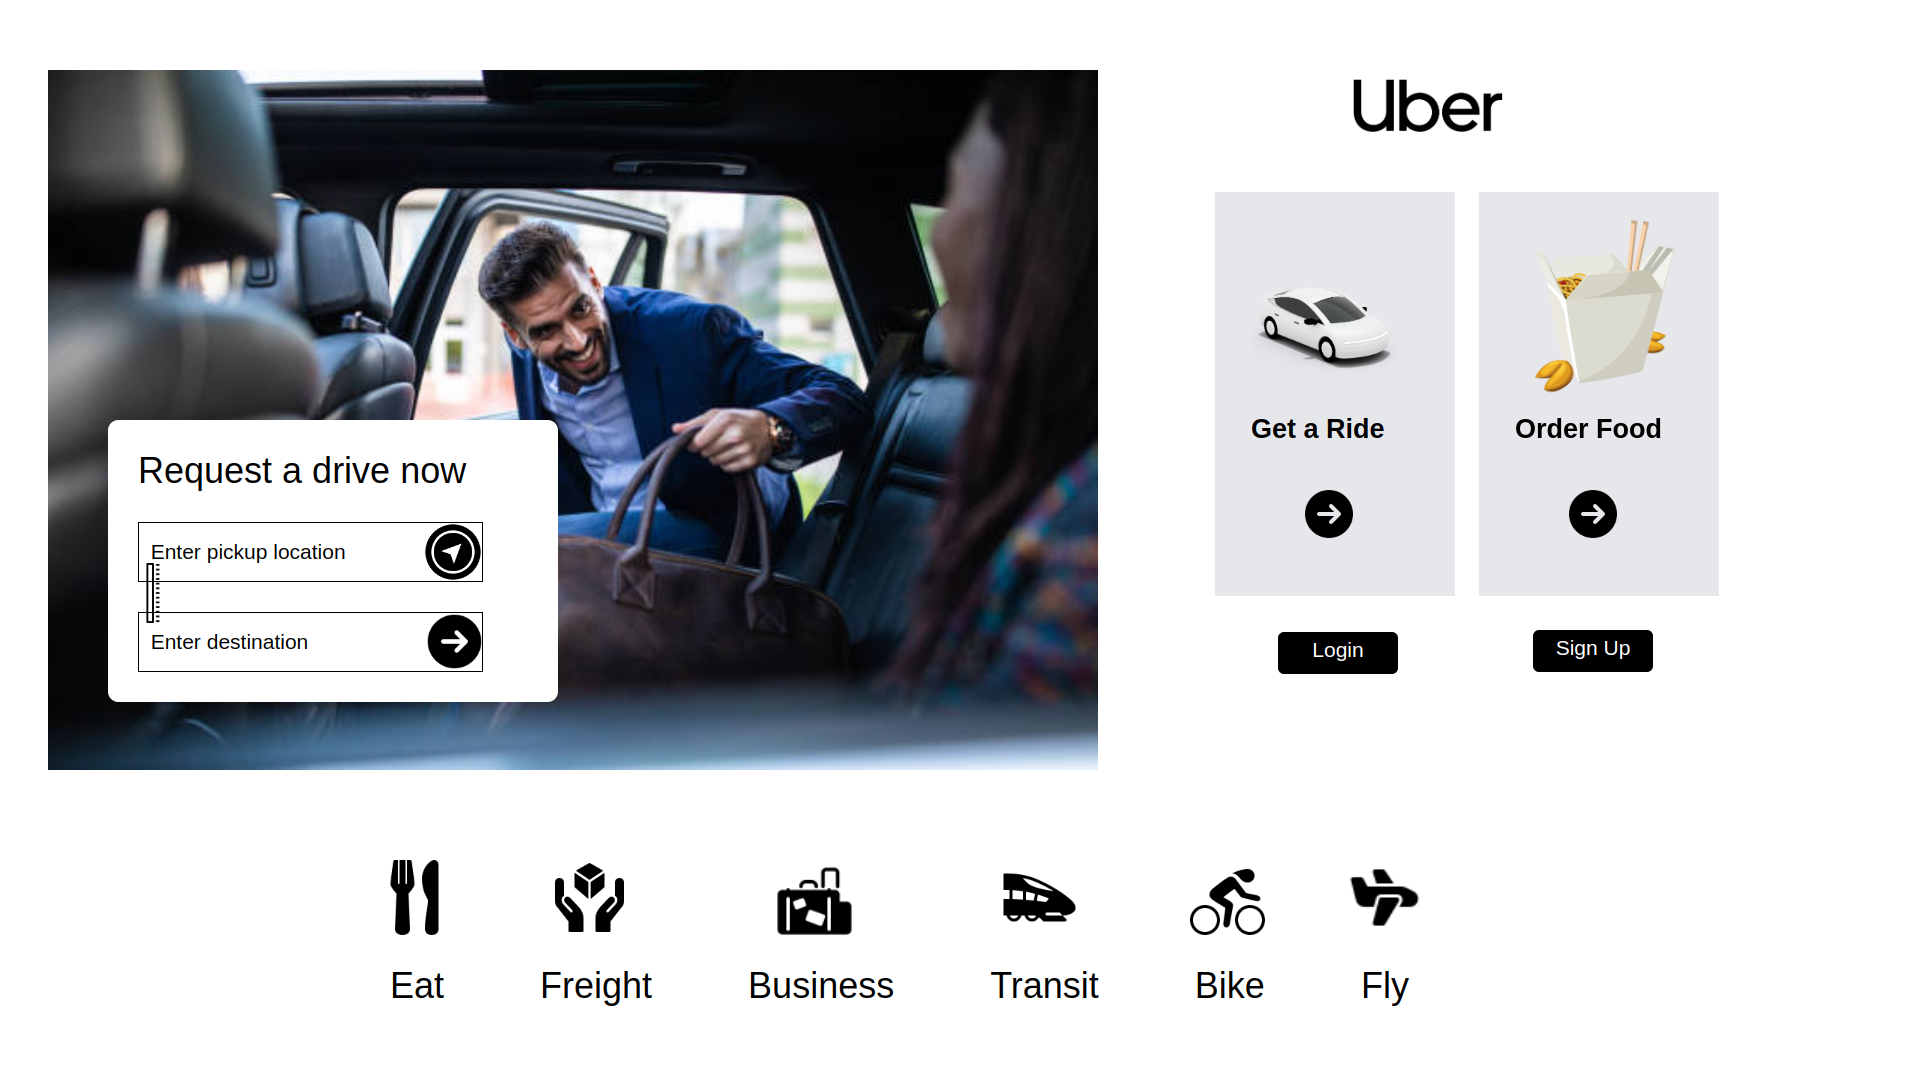
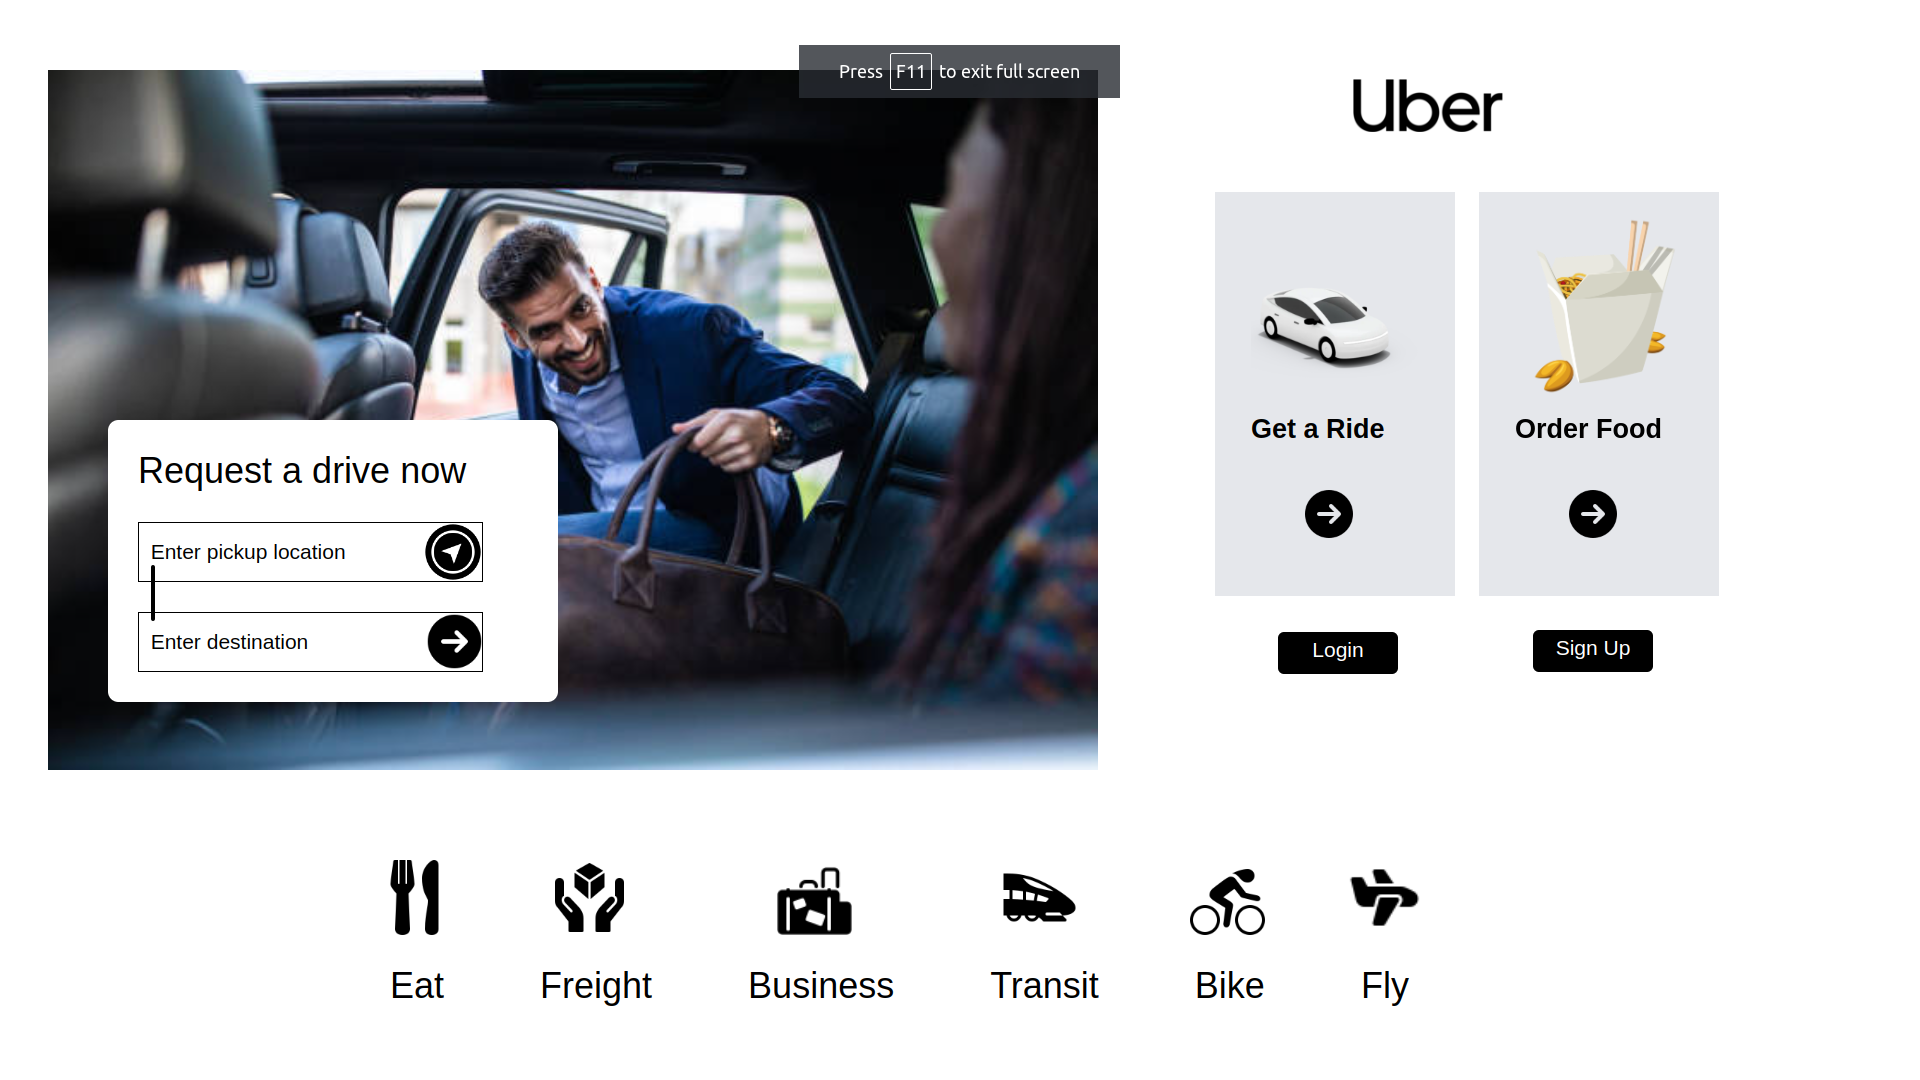
Demo live

Changed region(s): [[0.4062, 0.0306, 0.5938, 0.0917], [0.0625, 0.5194, 0.0938, 0.5806]]

diff --git a/Uber/components/DriveAndDrop.js b/Uber/components/DriveAndDrop.js
@@ -4,7 +4,7 @@ import tw from 'tailwind-react-native-classnames';
 
 const gps ="https://img.icons8.com/ios-filled/100/null/navigation.png"
 const rightArrow = "https://img.icons8.com/ios-glyphs/90/null/circled-right.png"
-const line = "https://img.icons8.com/wired/64/null/vertical-line.png"
+const line = "https://img.icons8.com/ios-glyphs/90/null/vertical-line.png"
 
 const DriveAndDrop = () => {
   return (
